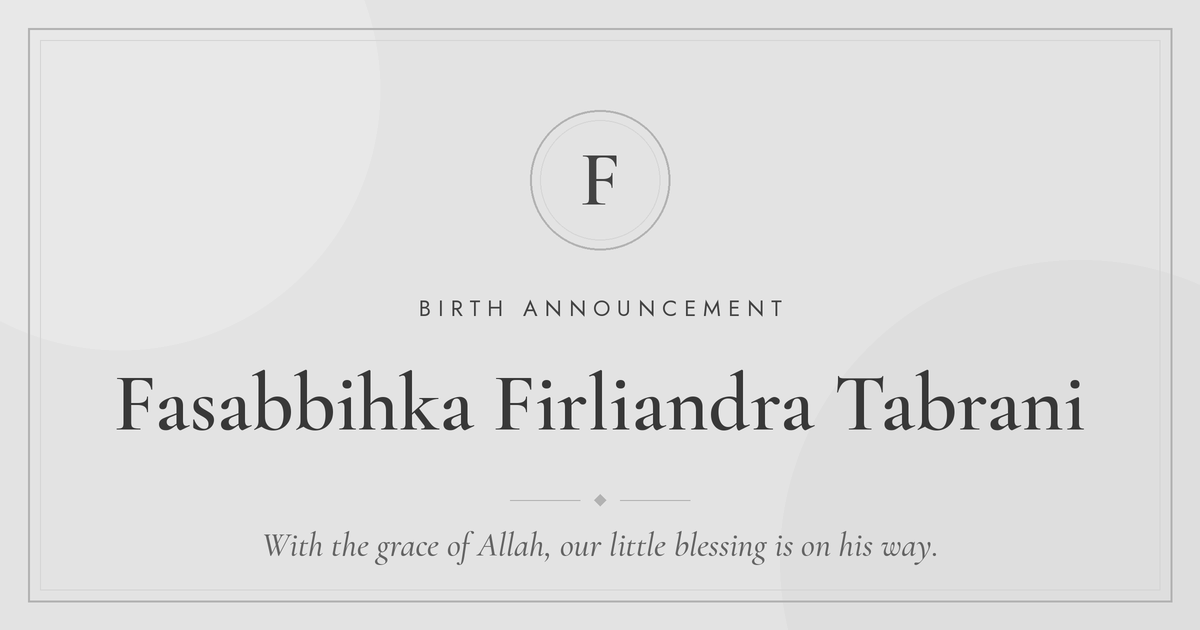
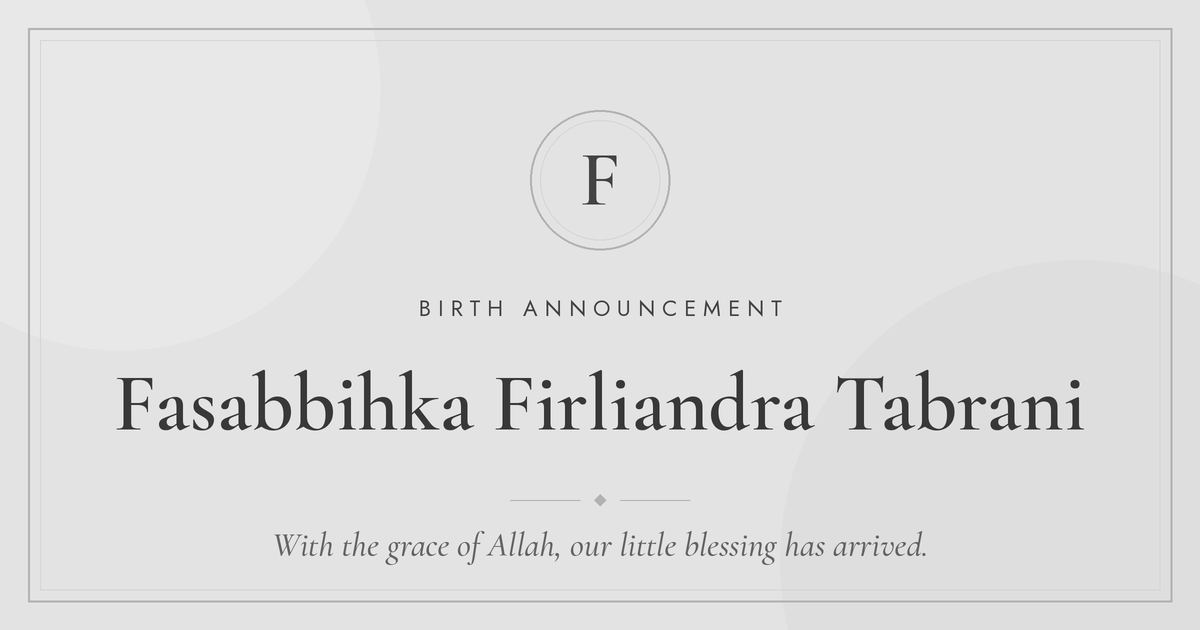
Refactor code structure for improved readability and maintainability

Changed region(s): [[0.2158, 0.8444, 0.7708, 0.9048]]

diff --git a/frontend/src/config/site.generated.js b/frontend/src/config/site.generated.js
@@ -22,10 +22,10 @@ export default {
     "nickname": "Firli",
     "gender": "male",
     "childWord": "little boy",
-    "status": "expecting",
-    "mode": "expecting",
+    "status": "born",
+    "mode": "born",
     "profilePhoto": null,
-    "birthAddress": "Jl. H. R. Rasuna Said Blok C Kav. 17, Karet Kuningan, Setiabudi, Jakarta Selatan 12940",
+    "birthAddress": null,
     "nameMeaning": [
       {
         "part": "Fasabbihka",
@@ -56,8 +56,8 @@ export default {
     "heroPhoto": true,
     "storyPhoto": "/images/mom-dad.jpg?v=84ca6445",
     "footerName": "nickname",
-    "galleryAspect": "4/5",
-    "birthMap": true,
+    "galleryAspect": "3/4",
+    "birthMap": false,
     "decor": {
       "pattern": "none",
       "heroFrame": "arch",
@@ -92,14 +92,14 @@ export default {
   },
   "texts": {
     "splashEyebrow": "",
-    "splashIntro": "With hearts full of love, we are overjoyed to share our happy news: our little boy is on his way to our family,",
+    "splashIntro": "With hearts full of love, we are overjoyed to share our happy news and introduce our little boy to our family,",
     "splashButton": "Meet Firli",
-    "heroScript": "With the grace of Allah, our little blessing is on his way.",
+    "heroScript": "With the grace of Allah, our little blessing has arrived.",
     "heroEyebrowBorn": "",
     "heroEyebrowWaiting": "",
-    "heroTagline": "Our answered prayer, soon to be in our arms.",
-    "heroDatePrefix": "Expected",
-    "heroClosing": "With love and gratitude, we are counting the days to welcome our beloved son, Firli.",
+    "heroTagline": "Our answered prayer, now safely in our arms.",
+    "heroDatePrefix": "",
+    "heroClosing": "With love and gratitude, we welcome our beloved son, Firli.",
     "heroScrollHint": "Scroll",
     "profileEyebrow": "Profile",
     "profileTitle": "Our Little One",
@@ -110,11 +110,11 @@ export default {
     "birthInfoEyebrow": "",
     "birthInfoTitleBorn": "Birth Details",
     "birthInfoTitleWaiting": "Birth Details",
-    "birthLabelDate": "Due Date",
+    "birthLabelDate": "Date",
     "birthLabelTime": "Time",
     "birthLabelWeight": "Weight",
     "birthLabelLength": "Length",
-    "birthLabelPlace": "Hospital",
+    "birthLabelPlace": "Born at",
     "ageEyebrowBorn": "",
     "ageTitleBorn": "Every Second Matters",
     "ageSubtitleBorn": "Time since we first met Firli",
@@ -129,7 +129,7 @@ export default {
     "unitSeconds": "Seconds",
     "storyEyebrow": "",
     "storyTitle": "",
-    "storyQuote": "With hearts full of gratitude and joy, we await our precious little boy, Firli. Alhamdulillah, our greatest blessing is almost here. May Allah always guide his steps, protect his heart, and fill his life with love.",
+    "storyQuote": "With hearts full of gratitude and joy, we welcome our precious little boy, Firli. Alhamdulillah, our greatest blessing has arrived. May Allah always guide his steps, protect his heart, and fill his life with love.",
     "storyFallback": "Every prayer we whispered, every day we waited, has now become you. Welcome to the world, little one.",
     "storySignoff": "With love,",
     "timelineEyebrow": "Journey",
@@ -144,7 +144,7 @@ export default {
     "mapsButton": "Open in Google Maps",
     "doctorsLabel": "Our Doctor",
     "doctorEyebrow": "",
-    "doctorTitle": "The Doctor Who Is Part of Our Journey",
+    "doctorTitle": "The Doctor Who Was Part of Our Journey",
     "statsVisitors": "Visitors",
     "statsWishes": "Well Wishes",
     "wishesEyebrow": "Well Wishes",
@@ -202,7 +202,7 @@ export default {
   },
   "seo": {
     "title": "Fasabbihka Firliandra Tabrani · Birth Announcement",
-    "description": "With the grace of Allah, our little blessing is on his way.",
-    "ogImage": "/og-image.png?v=674feec6"
+    "description": "With the grace of Allah, our little blessing has arrived.",
+    "ogImage": "/og-image.png?v=7b1c7b5c"
   }
 };

diff --git a/site.config.js b/site.config.js
@@ -39,17 +39,18 @@ export default {
     fullName: 'Fasabbihka Firliandra Tabrani',
     nickname: 'Firli',
     gender: 'male',
-    status: 'expecting', // 'expecting' (sebelum lahir) | 'born' (sudah lahir)
+    status: 'born', // 'expecting' (sebelum lahir) | 'born' (sudah lahir) — Firli lahir 18 Oktober 2026
 
     birth: {
-      date: '2026-10-14', // HPL — ganti dengan tanggal lahir asli setelah lahir
-      time: null, // mis. '08:42'
-      weightGrams: null, // mis. 3200 (gram)
-      lengthCm: null, // mis. 49.5
+      date: '2026-10-18', // tanggal lahir (HPL sebelumnya 2026-10-14)
+      time: null, // jam lahir tidak ditampilkan
+      weightGrams: 3325, // 3.325 gram
+      lengthCm: 49, // 49 cm
       place: 'Mayapada Hospital Kuningan',
       city: null,
-      // Alamat resmi (mayapadahospital.com) — tampil di Birth Details + peta Google Maps
-      address: 'Jl. H. R. Rasuna Said Blok C Kav. 17, Karet Kuningan, Setiabudi, Jakarta Selatan 12940',
+      // Alamat & peta tidak ditampilkan lagi (Firli sudah di rumah). Untuk menampilkan lagi:
+      // address: 'Jl. H. R. Rasuna Said Blok C Kav. 17, Karet Kuningan, Setiabudi, Jakarta Selatan 12940',
+      address: null,
     },
 
     // Dipakai untuk deskripsi SEO/preview link.
@@ -116,14 +117,16 @@ export default {
   timeline: [],
 
   // ---------------------------------------------------------------------------
-  // 5. GALERI — Page 7. Bingkai portrait 4:5 (layout.galleryAspect).
-  //    Sementara berisi foto Robby & Intan; tambahkan foto Firli setelah lahir:
-  //    { image: '/images/firli-01.jpg', caption: '' }
-  //    Kompres foto baru dulu: python3 scripts/optimize-images.py <file> --name firli-01
+  // 5. GALERI — Page 7. Bingkai portrait 3:4 (layout.galleryAspect).
+  //    Foto baru: kompres dulu -> python3 scripts/optimize-images.py <file> --name firli-06
+  //    lalu tambahkan { image: '/images/firli-06.jpg', alt: '...' }
   // ---------------------------------------------------------------------------
   gallery: [
-    { image: '/images/robby.jpg', alt: 'Robby' },
-    { image: '/images/intan.jpg', alt: 'Intan' },
+    { image: '/images/firli.jpg', alt: 'Firli' },
+    { image: '/images/firli-tangan.jpg', alt: 'Firli holding a finger' },
+    { image: '/images/firli-oma.jpg', alt: 'Firli with Oma' },
+    { image: '/images/dokter-firli.jpg', alt: 'Firli with dr. Darrell Fernando' },
+    { image: '/images/robby-dokter-intan-firli.jpg', alt: 'Robby, dr. Darrell Fernando, Intan and Firli' },
   ],
 
   // ---------------------------------------------------------------------------
@@ -165,8 +168,8 @@ export default {
     splashName: 'nickname', // Page 1: "FIRLI"
     heroPhoto: true, // Page 2: foto Firli bila profilePhoto diisi
     storyPhoto: '/images/mom-dad.jpg', // Page 4: foto Mom & Dad berdua
-    galleryAspect: '4/5', // Page 7: bingkai portrait
-    birthMap: true, // Page 5: alamat + peta Mayapada Hospital Kuningan
+    galleryAspect: '3/4', // Page 7: bingkai portrait tinggi (foto HP tidak terlalu terpotong)
+    birthMap: false, // Page 5: peta Google Maps tidak ditampilkan (Firli sudah di rumah)
     // Dekorasi: latar polos (tanpa pola), bingkai lengkung & kilau nama tetap.
     decor: {
       pattern: 'none', // 'none' = polos, bagian putih & abu #E3E3E3 berselang-seling | 'geometric' = pola bintang

diff --git a/frontend/src/utils/format.js b/frontend/src/utils/format.js
@@ -31,7 +31,7 @@ export function formatTime(value) {
 export function formatWeight(grams) {
   if (!grams && grams !== 0) return '';
   const str = (grams / 1000)
-    .toFixed(2) // dua desimal (3280 -> 3.28)
+    .toFixed(3) // tiga desimal agar tepat sampai gram (3325 -> 3.325, 3280 -> 3.28)
     .replace(/0+$/, '') // buang nol di belakang (3.20 -> 3.2)
     .replace(/\.$/, '') // buang titik jika tersisa (3.00 -> 3)
     .replace('.', DECIMAL);
